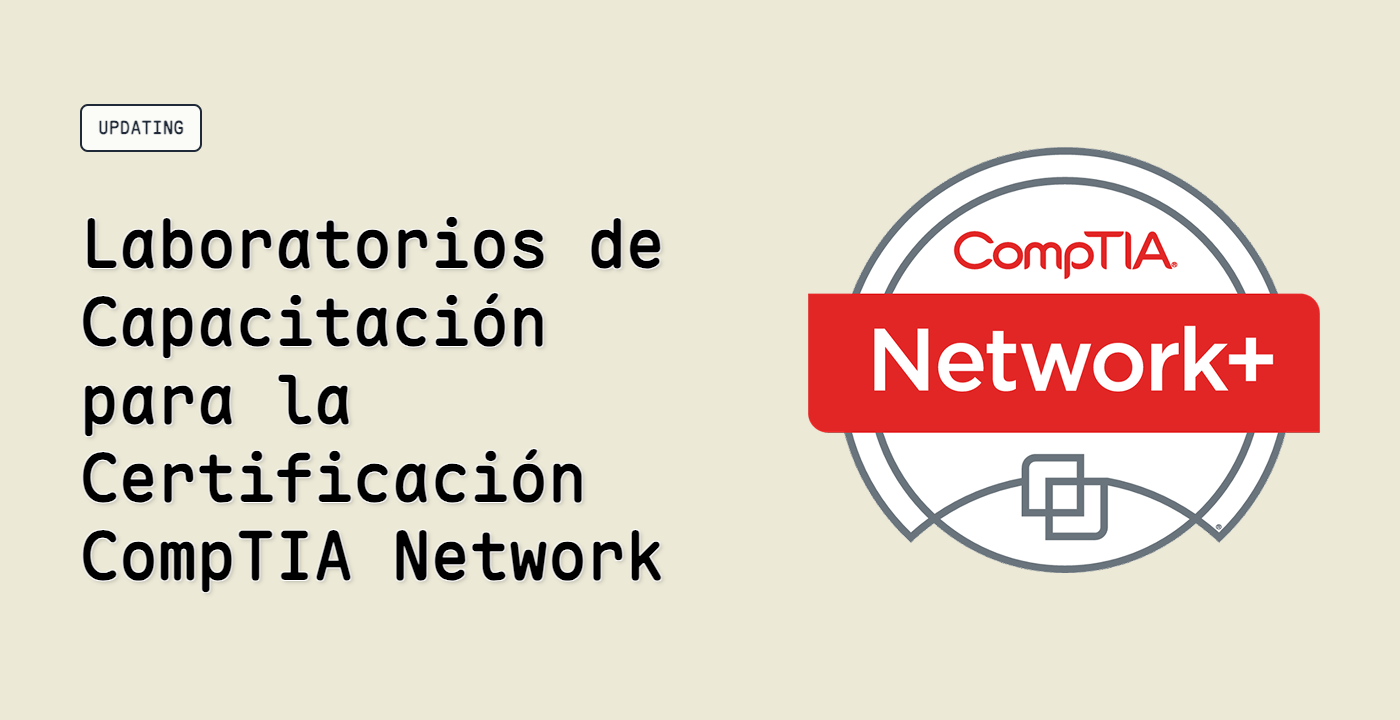
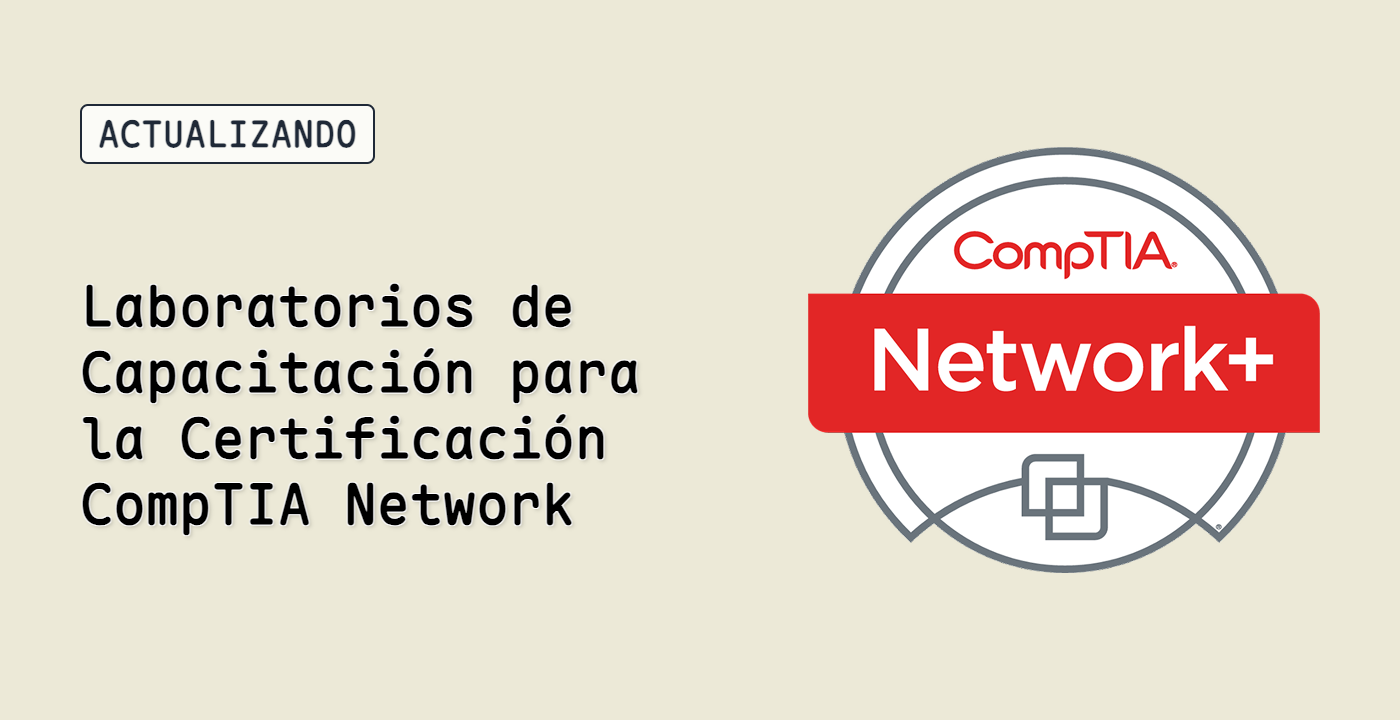
chore: update preview.html to support localized updating status and adjust font sizes in course cover generation script

Changed region(s): [[0.0614, 0.3056, 0.4914, 0.825], [0.0614, 0.1222, 0.2764, 0.2444]]

diff --git a/preview.html b/preview.html
@@ -29,9 +29,8 @@
       <div class="w-[600px] h-[512px] flex flex-col justify-start gap-4 overflow-hidden">
         <!-- Updating 标识矩形块 - 放在课程标题上方 -->
         <div id="updating-badge" class="hidden mb-4">
-          <div class="inline-block px-4 py-2 rounded-lg text-gray-800 font-black text-lg border-2 border-gray-800"
+          <div class="inline-block px-4 py-2 rounded-lg text-gray-800 font-black text-4xl border-2 border-gray-800"
             style="background-color: rgba(255, 255, 255, 0.8); font-family: 'Maple Mono NF CN', monospace;">
-            UPDATING
           </div>
         </div>
 
@@ -53,11 +52,12 @@
     const courseType = urlParams.get("course_type") || "normal";
     const courseName = urlParams.get("course_name") || "Linux for Noobs 基础入门";
     const lang = urlParams.get("lang") || "en";
-    const status = urlParams.get("status");
+    const status_text = urlParams.get("status_text");
 
     // 处理状态显示
-    if (status === "updating") {
+    if (status_text) {
       const updatingBadge = document.getElementById("updating-badge");
+      updatingBadge.children[0].textContent = status_text;
       updatingBadge.classList.remove("hidden");
     }
 
@@ -100,19 +100,19 @@
       // 定义字体大小阶梯
       if (charCount <= 45) {
         // 默认大小
-        element.style.fontSize = "clamp(24px, 5vw, 75px)";
+        element.style.fontSize = "clamp(24px, 5vw, 65px)";
       } else if (charCount <= 70) {
         // 稍小一点
-        element.style.fontSize = "clamp(22px, 4.5vw, 65px)";
+        element.style.fontSize = "clamp(22px, 4.5vw, 55px)";
       } else if (charCount <= 100) {
         // 中等
-        element.style.fontSize = "clamp(20px, 4vw, 55px)";
+        element.style.fontSize = "clamp(20px, 4vw, 45px)";
       } else if (charCount <= 150) {
         // 较小
-        element.style.fontSize = "clamp(18px, 3.5vw, 45px)";
+        element.style.fontSize = "clamp(18px, 3.5vw, 35px)";
       } else {
         // 最小
-        element.style.fontSize = "clamp(16px, 3vw, 35px)";
+        element.style.fontSize = "clamp(16px, 3vw, 25px)";
       }
     }
 

diff --git a/scripts/generate_cover.py b/scripts/generate_cover.py
@@ -33,6 +33,18 @@ logger = logging.getLogger("rich")
 # 支持的语言列表
 SUPPORTED_LANGUAGES = ["en", "ja", "zh", "fr", "es", "de", "ru", "ko", "pt"]
 
+UPDATING_TEXT = {
+    "en": "UPDATING",
+    "ja": "更新中",
+    "zh": "更新中",
+    "fr": "MISE À JOUR",
+    "es": "ACTUALIZANDO",
+    "de": "WIRD AKTUALISIERT",
+    "ru": "ОБНОВЛЕНИЕ",
+    "ko": "업데이트 중",
+    "pt": "ATUALIZANDO",
+}
+
 
 def get_course_info(course_alias: str, lang: str) -> tuple[dict | None, bool]:
     """从 LabEx API 获取课程信息
@@ -298,9 +310,10 @@ def generate_cover(
     }
 
     # 添加状态参数
-    if status:
-        params["status"] = status
-        logger.info(f"课程状态：{status}")
+    if status == "updating":
+        status_text = UPDATING_TEXT.get(lang, UPDATING_TEXT["en"])
+        params["status_text"] = status_text
+        logger.info(f"课程状态：updating, 本地化文案：{status_text}")
 
     logger.debug(f"生成参数：{params}")
 
